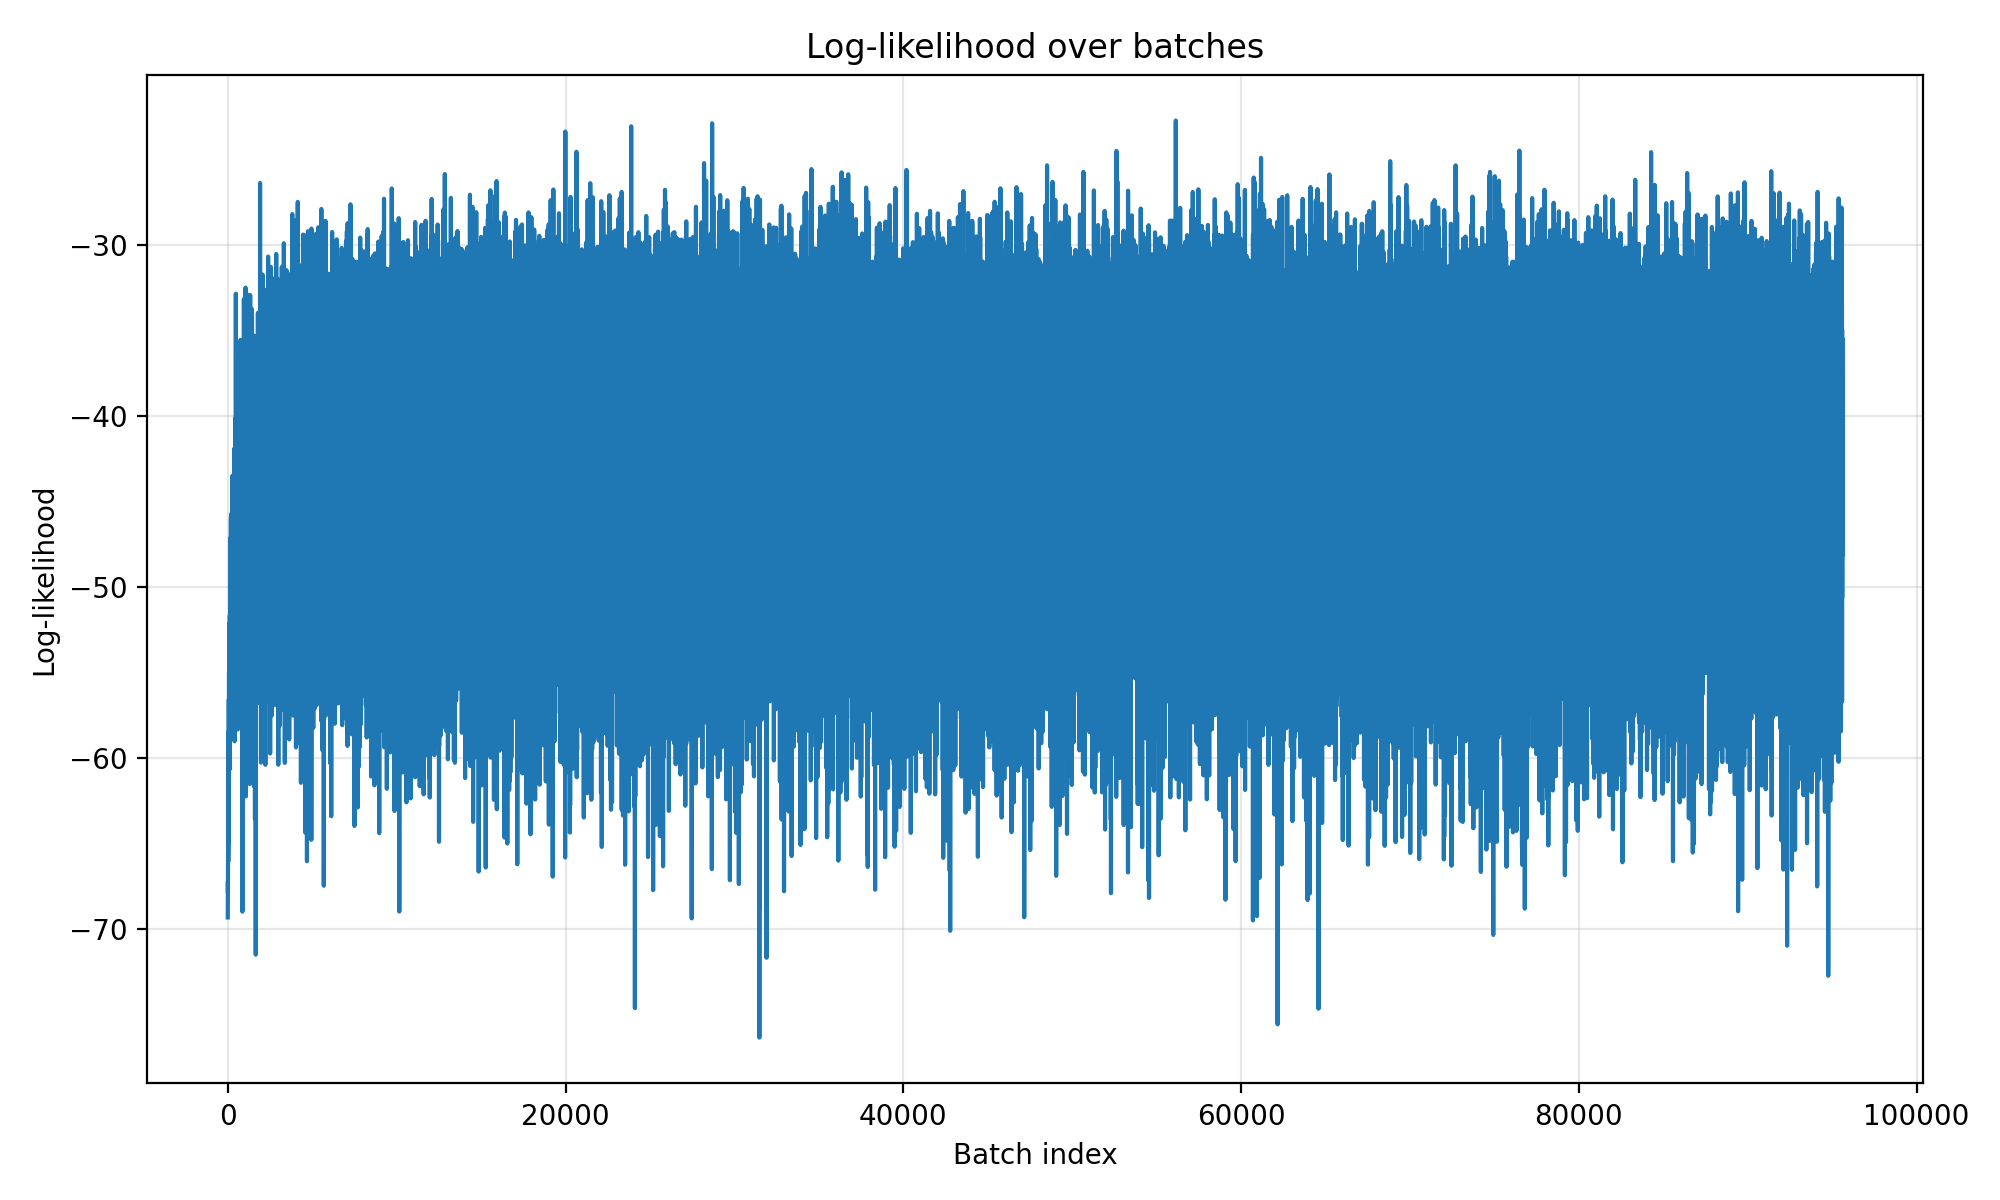
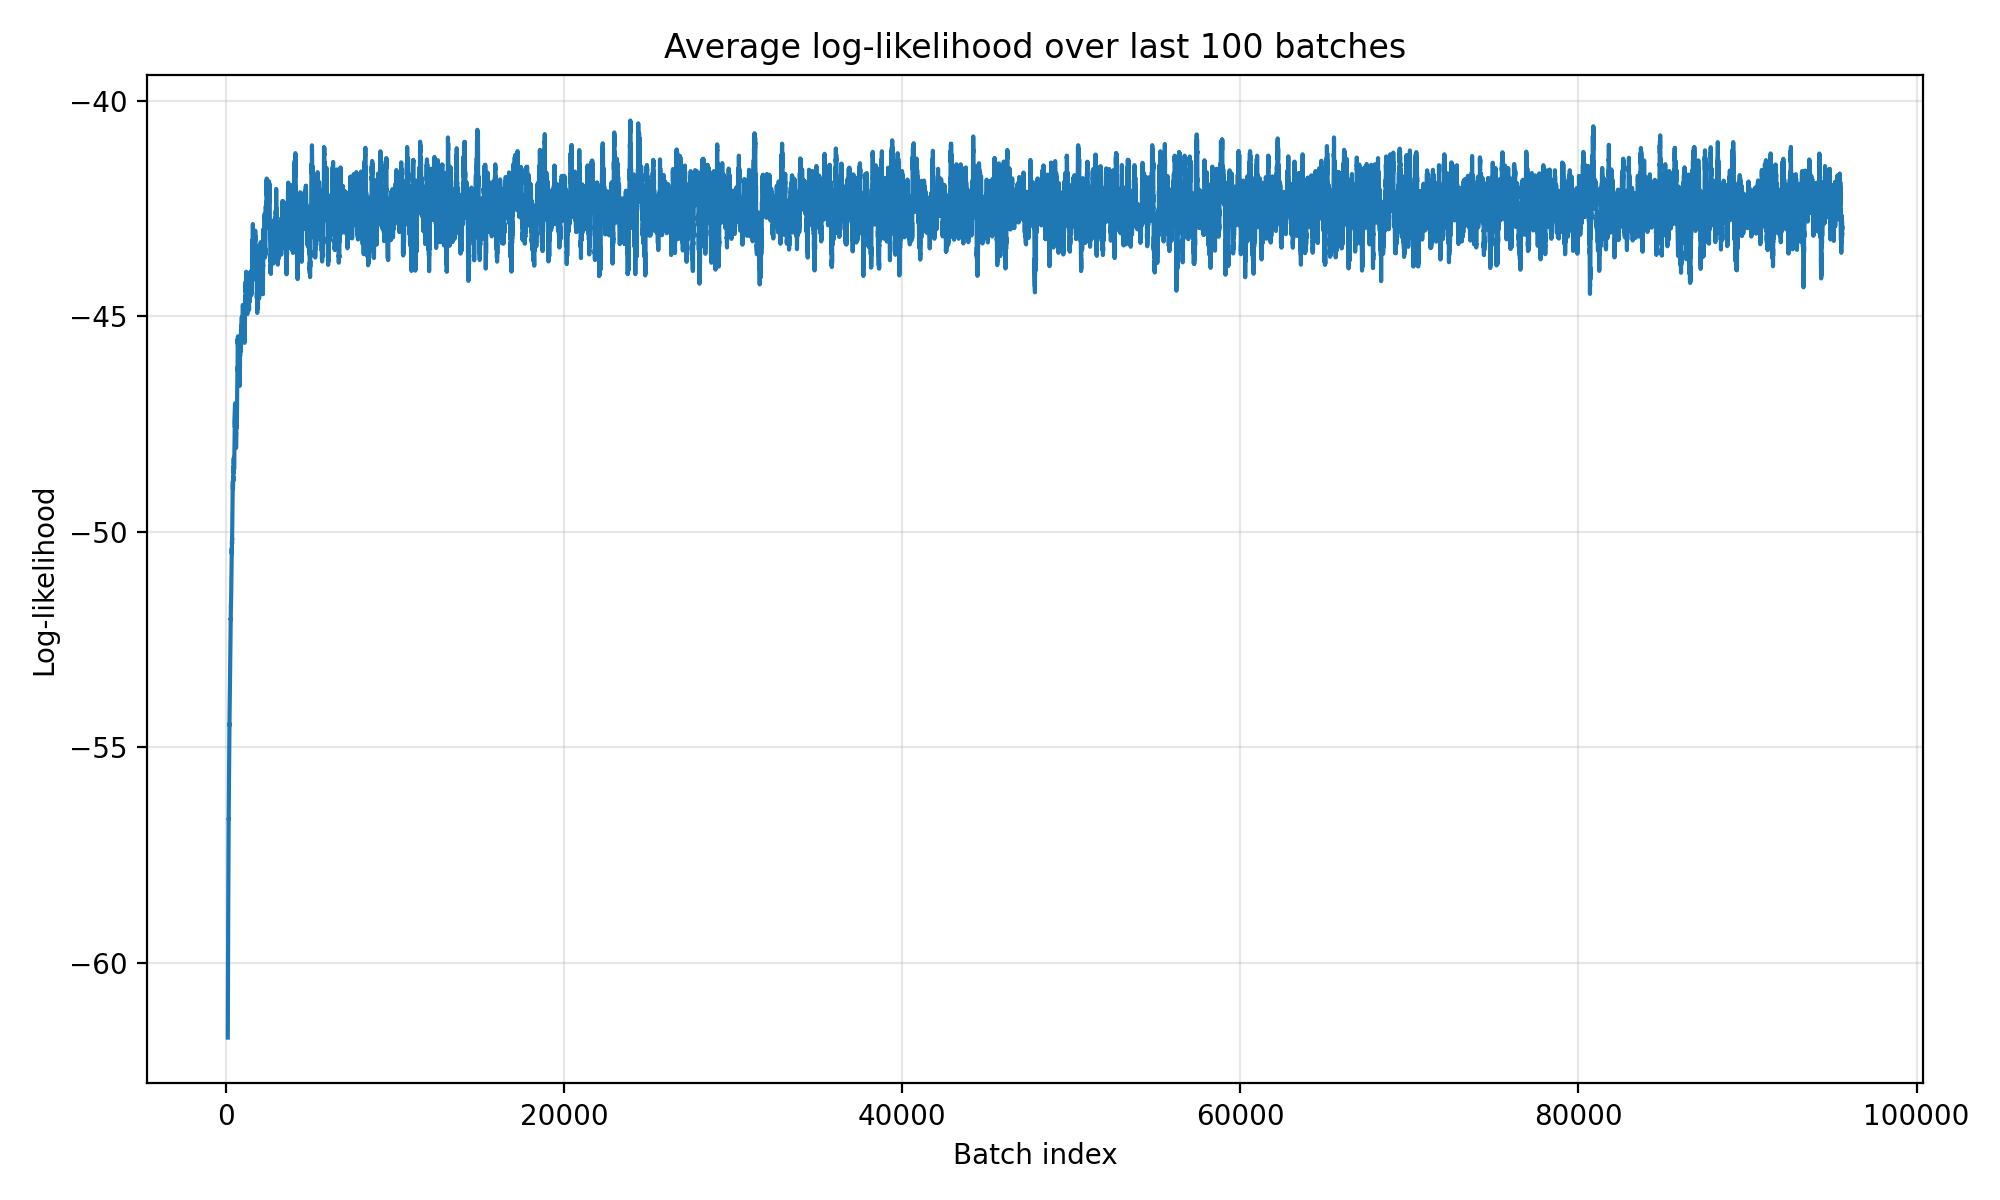
improve

diff --git a/c3mod10assignment/c3mod10assignment.py b/c3mod10assignment/c3mod10assignment.py
@@ -146,32 +146,19 @@ def gradient_ascent_algorithm_stochastic_batch(w_current,
 
     return gradient, log_l_batch
 
-def avg_log_l_batch(log_l_batch_outcomes, k):
-    last_k = log_l_batch_outcomes[-k:]
-    return sum(last_k) / len(last_k)
-
-def check_values(k, batch_size, N, epsilon):
-    if not isinstance(k, int):
-        raise TypeError("k must be an integer")
+def check_values(batch_size, N):
     if not isinstance(batch_size, int):
         raise TypeError("batch_size must be an integer")
-    if not isinstance(epsilon, float):
-        raise TypeError("epsilon must be a float")
-
-    if k <= 0:
-        raise ValueError("k must be positive")
     if batch_size <= 0:
         raise ValueError("batch_size must be positive")
     if batch_size > N:
         raise ValueError("batch_size cannot exceed N")
-    if epsilon < -1.0 or epsilon >= 100.0:
-        raise ValueError("pls choose a proper value for epsilon")
 
 def gradient_ascent_algorithm_stochastic(w_init,
                                          H, Y,
                                          batch_size,
-                                         epsilon, stepsize,
-                                         max_iter, k,
+                                         stepsize,
+                                         max_iter,
                                          dummy_run=False):
     if dummy_run == True:
         return w_init, []
@@ -182,16 +169,13 @@ def gradient_ascent_algorithm_stochastic(w_init,
     N = H.shape[0]
     D = H.shape[1]
 
-    check_values(k=k, batch_size=batch_size, N=N, epsilon=epsilon)
-
-    avg_log_l = 100.0
-    prev_avg_log_l = 0.0
+    check_values(batch_size=batch_size, N=N)
 
     w_current = np.copy(w_init)
     log_l_batch_outcomes = []
 
     iteration_nr = 0
-    while iteration_nr < max_iter and np.abs(avg_log_l - prev_avg_log_l) >= epsilon:
+    while iteration_nr < max_iter:
         print_with_tms(f"iteration_nr {iteration_nr}")
         #Here, an iteration is a whole data pass (N rows) and usually we do one or few
         #While a batch is a subset of the data
@@ -208,9 +192,6 @@ def gradient_ascent_algorithm_stochastic(w_init,
                                                 batchnr=batchnr)
 
             log_l_batch_outcomes.append(log_l_batch)
-            prev_avg_log_l = avg_log_l
-            avg_log_l = avg_log_l_batch(log_l_batch_outcomes=log_l_batch_outcomes,
-                                        k=k)
 
             w_new = gradient_ascent_upd_w(D=D, gradient=gradient,
                                 w_current=w_current,
@@ -218,7 +199,7 @@ def gradient_ascent_algorithm_stochastic(w_init,
             w_current = np.copy(w_new)
 
             if batch_size >= 2000 or batchnr % 2000 == 0 or PRINTSTUFF == True:
-                print_with_tms(f"batchnr {batchnr} avg_log_l {avg_log_l}")
+                print_with_tms(f"batchnr {batchnr} log_l_batch {log_l_batch}")
             batchnr += 1
 
         iteration_nr += 1
@@ -265,18 +246,31 @@ def compute_accuracy(Y, Y_predicted):
 
 def plot_log_l_batch_outcomes(log_l_batch_outcomes,
                              output_dir=".\\output",
-                             filename="log_likelihood.png"):
+                             filename="log_likelihood.png",
+                             smoothing_window=1):
     if not log_l_batch_outcomes:
         raise ValueError("log_l_batch_outcomes is empty")
 
+    if smoothing_window <= 0:
+        raise ValueError("smoothing_window must be positive")
+
     os.makedirs(output_dir, exist_ok=True)
 
-    x = np.arange(1, len(log_l_batch_outcomes) + 1)
     y = np.asarray(log_l_batch_outcomes, dtype=float)
 
+    if smoothing_window == 1:
+        y_plot = y
+        x = np.arange(1, len(y_plot) + 1)
+        title = "Log-likelihood over batches"
+    else:
+        window = min(int(smoothing_window), len(y))
+        y_plot = np.convolve(y, np.ones(window) / window, mode="valid")
+        x = np.arange(window, len(y) + 1)
+        title = f"Average log-likelihood over last {window} batches"
+
     plt.figure(figsize=(10, 6))
-    plt.plot(x, y, color="tab:blue", linewidth=1.5)
-    plt.title("Log-likelihood over batches")
+    plt.plot(x, y_plot, color="tab:blue", linewidth=1.5)
+    plt.title(title)
     plt.xlabel("Batch index")
     plt.ylabel("Log-likelihood")
     plt.grid(True, alpha=0.3)
@@ -321,8 +315,8 @@ w_init = np.zeros(H_train.shape[1], dtype=float)
 w_optimized, _ = gradient_ascent_algorithm_stochastic(w_init=w_init,
                         H=H_train, Y=Y_train,
                         batch_size=1,
-                        epsilon=0.0, stepsize=5e-1,
-                        max_iter = 10, k=1,
+                        stepsize=5e-1,
+                        max_iter = 10,
                         dummy_run=True)
 print_with_tms(f"w_optimized \n{w_optimized}")
 
@@ -332,8 +326,8 @@ N = H_train.shape[0]
 w_optimized, _ = gradient_ascent_algorithm_stochastic(w_init=w_init,
                         H=H_train, Y=Y_train,
                         batch_size=N,
-                        epsilon=-1.0, stepsize=5e-1,
-                        max_iter = 200, k=1000,
+                        stepsize=5e-1,
+                        max_iter = 200,
                         dummy_run=True)
 print_with_tms(f"w_optimized \n{w_optimized}")
 
@@ -342,8 +336,9 @@ w_init = np.zeros(H_train.shape[1], dtype=float)
 w_optimized, log_l_batch_outcomes = gradient_ascent_algorithm_stochastic(w_init=w_init,
                         H=H_train, Y=Y_train,
                         batch_size=100,
-                        epsilon=-1.0, stepsize=1e-1,
-                        max_iter = 200, k=1,
+                        stepsize=1e-1,
+                        max_iter = 200,
                         dummy_run=False)
 print_with_tms(f"w_optimized \n{w_optimized}")
-plot_log_l_batch_outcomes(log_l_batch_outcomes=log_l_batch_outcomes)
+plot_log_l_batch_outcomes(log_l_batch_outcomes=log_l_batch_outcomes,
+                          smoothing_window=100)
